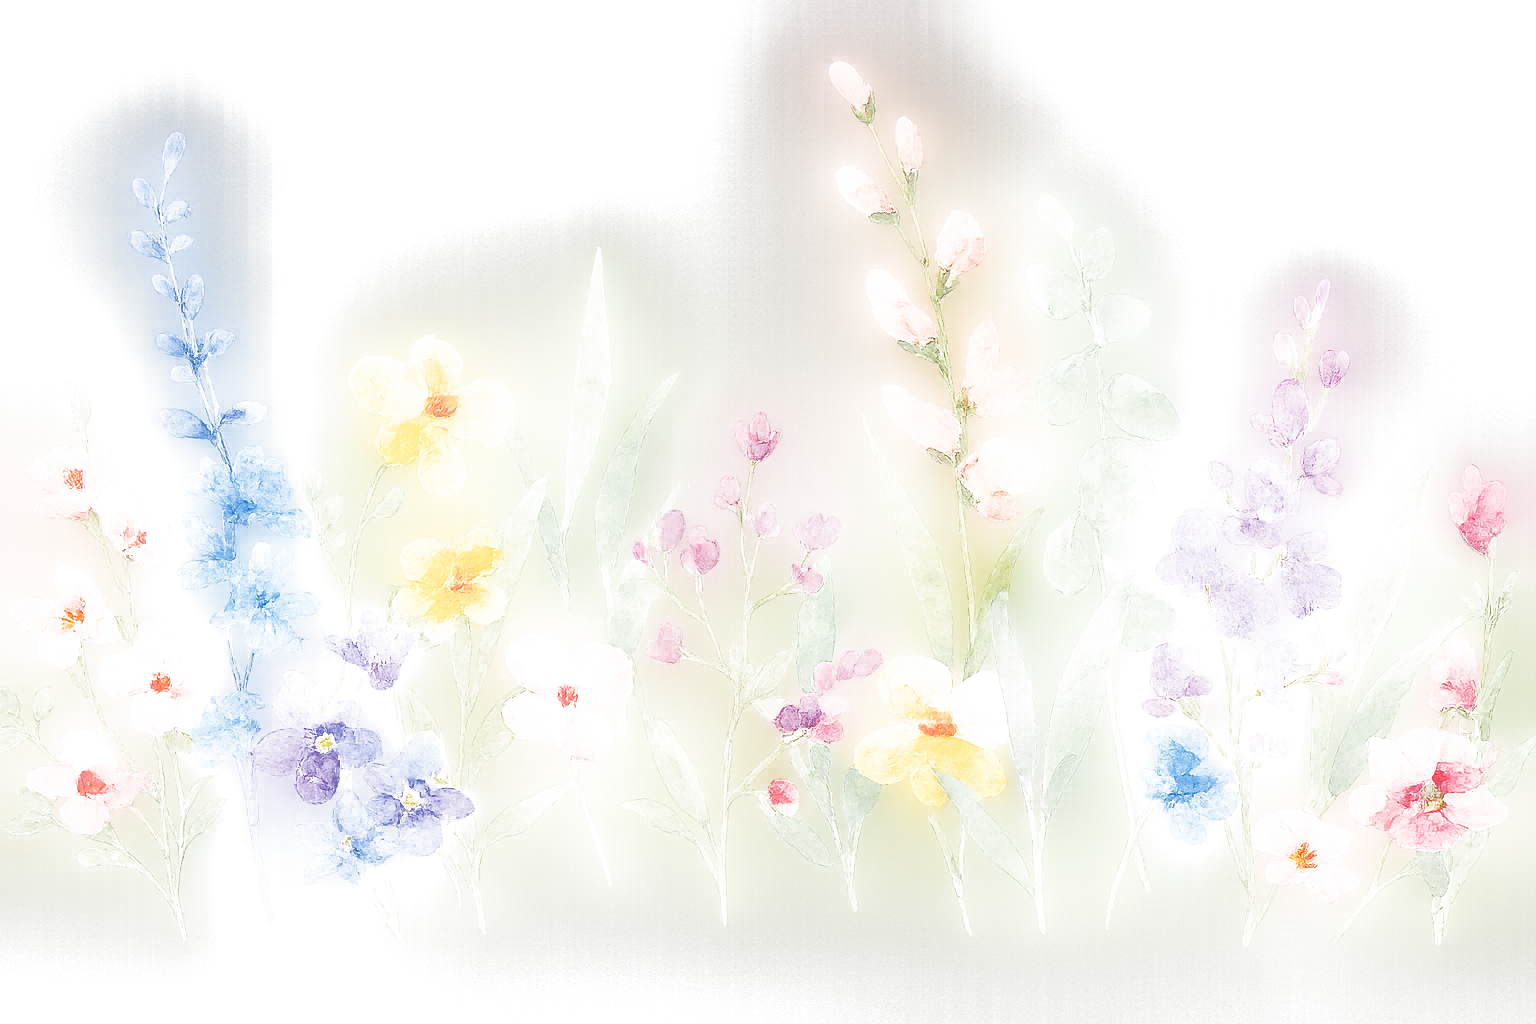
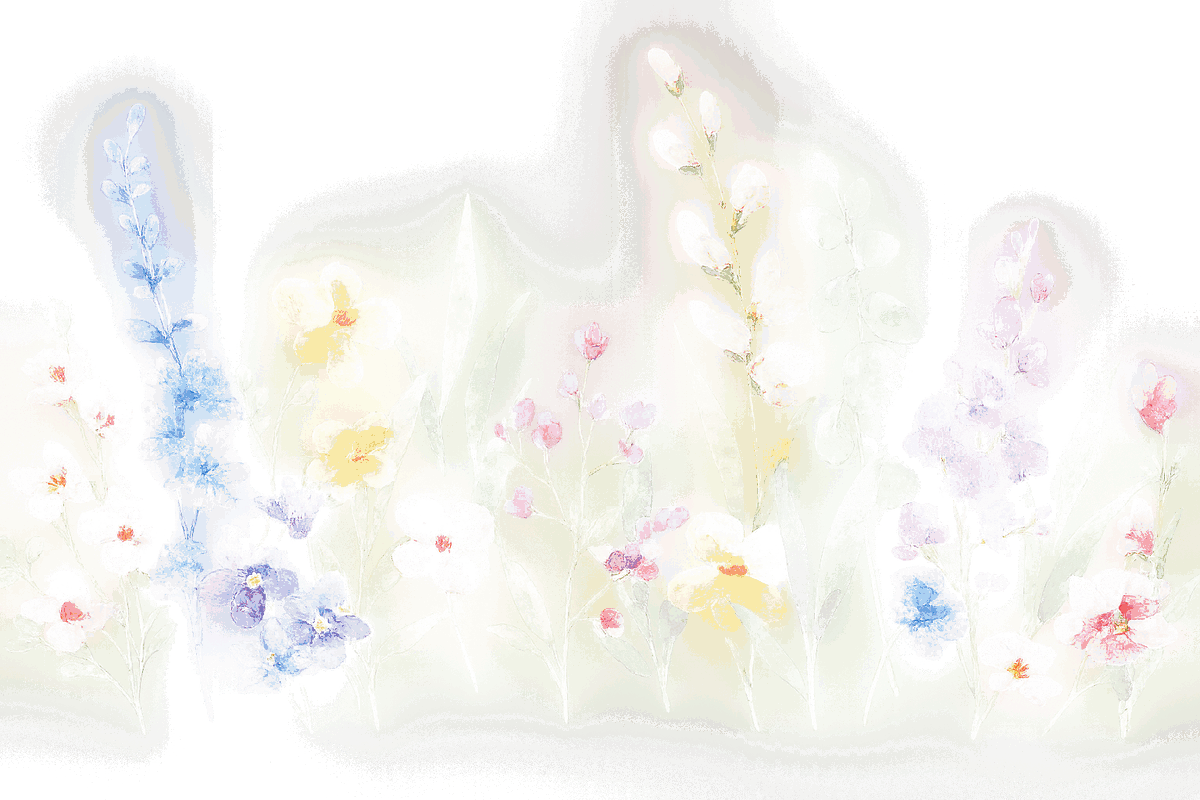
Add files via upload

diff --git a/index.html b/index.html
@@ -3,7 +3,16 @@
 <head>
   <meta charset="UTF-8" />
   <meta name="viewport" content="width=device-width, initial-scale=1.0" />
-  <title>Luciana &amp; Gianpaolo — We're Getting Married</title>
+  <title>Luciana &amp; Gianpaolo — Ci sposiamo!</title>
+
+  <!-- Anteprima condivisione (WhatsApp / social) -->
+  <meta property="og:type" content="website" />
+  <meta property="og:title" content="Luciana &amp; Gianpaolo — Ci sposiamo!" />
+  <meta property="og:description" content="13 Agosto 2026 · Santuario della Madonna del Carmine. Vi aspettiamo per celebrare insieme!" />
+  <meta property="og:image" content="https://designagencysolutions-prog.github.io/Luciana-Gianpaolo/assets/share.jpg" />
+  <meta property="og:url" content="https://designagencysolutions-prog.github.io/Luciana-Gianpaolo/" />
+  <meta name="twitter:card" content="summary_large_image" />
+  <meta name="theme-color" content="#faf6f0" />
 
   <!-- ============================================================
        EDIT ME: Quick-change checklist
@@ -138,7 +147,7 @@
     /* Sfondo della hero (piu tenue) */
     .hero::before {
       content: ''; position: absolute; inset: 0; z-index: 0;
-      background: url('assets/sfondo.png') center / cover no-repeat;
+      background: url('assets/sfondo.jpg') center / cover no-repeat;
       opacity: .5;
     }
     /* Alone bianco centrale: dietro il testo i fiori diventano quasi impercettibili */
@@ -483,7 +492,7 @@
     /* ---------- CONFERMA / RSVP ---------- */
     #rsvp {
       position: relative; padding-top: 3.5rem;
-      background: url('assets/sfondo.png') center / cover no-repeat, var(--bg);
+      background: url('assets/sfondo.jpg') center / cover no-repeat, var(--bg);
     }
     /* copre i fiori in alto: il testo resta su fondo pulito, poi sfuma */
     #rsvp::before {
@@ -588,7 +597,7 @@
     .qr-card {
       position: relative; z-index: 1; width: 100%; max-width: 460px;
       background: var(--bg);
-      background-image: url('assets/sfondo.png');
+      background-image: url('assets/sfondo.jpg');
       background-size: 140% auto; background-position: center -20px; background-repeat: no-repeat;
       border-radius: 20px; padding: 3rem 2rem 2.4rem; text-align: center;
       border: 1px solid rgba(176, 141, 87, .4);
@@ -772,14 +781,14 @@
 
       <div class="ceremony-grid">
         <div class="ce-block">
-          <img class="ce-photo" src="assets/Carmine.png" alt="Santuario della Madonna del Carmine" />
+          <img class="ce-photo" src="assets/Carmine.jpg" alt="Santuario della Madonna del Carmine" loading="lazy" />
           <p class="ce-time">Ore 16:30</p>
           <p class="ce-venue">Santuario della Madonna del Carmine</p>
           <p class="ce-addr">Montefalcone di Val Fortore (BN)</p>
           <a class="ce-map" href="https://www.google.com/maps/place/Santuario+della+Madonna+del+Carmine/@41.327992,15.0124603,17z/data=!3m1!4b1!4m6!3m5!1s0x133a1e74a51b8165:0xc4ef9e4fa931cb00!8m2!3d41.327988!4d15.0150406!16s%2Fg%2F1tg2yln4?hl=en-PT&entry=ttu&g_ep=EgoyMDI2MDYxMC4wIKXMDSoASAFQAw%3D%3D" target="_blank" rel="noopener">Come arrivare &rarr;</a>
         </div>
         <div class="ce-block">
-          <img class="ce-photo" src="assets/Borgo.png" alt="Al Borgo degli Angeli" />
+          <img class="ce-photo" src="assets/Borgo.jpg" alt="Al Borgo degli Angeli" loading="lazy" />
           <p class="ce-time">Ore 19:00</p>
           <p class="ce-venue">Al Borgo degli Angeli</p>
           <p class="ce-addr">Contrada Montebello — San Nicola Manfredi (BN)</p>
@@ -864,8 +873,8 @@
       <!-- EDIT:RSVP -->
       <div class="mt">
         <a class="rsvp-letter" href="https://api.whatsapp.com/send/?phone=[phone redacted]&text&type=phone_number&app_absent=0" target="_blank" rel="noopener" aria-label="Conferma la tua presenza">
-          <img class="rsvp-envelope" src="assets/lettera.png" alt="" />
-          <img class="rsvp-seal" src="assets/sigillo.png" alt="Conferma la tua presenza" />
+          <img class="rsvp-envelope" src="assets/lettera.png" alt="" loading="lazy" />
+          <img class="rsvp-seal" src="assets/sigillo.png" alt="Conferma la tua presenza" loading="lazy" />
         </a>
       </div>
     </div>
@@ -874,7 +883,7 @@
 
   <!-- Polaroid fluttuante (compare allo scroll) -->
   <a class="polaroid-fab" href="#" aria-label="Condividi le foto del matrimonio">
-    <img src="assets/polaroid.png" alt="Polaroid" />
+    <img src="assets/polaroid.png" alt="Polaroid" loading="lazy" />
   </a>
 
   <!-- Modal: condivisione foto con QR -->
@@ -885,7 +894,7 @@
       <div class="qr-deco">❦</div>
       <p class="qr-title">Il giorno del nostro matrimonio potete condividere le foto con noi tramite questo <strong>QR code</strong>!</p>
       <a class="qr-link" href="https://dashboard.togevent.com/app/invite?c=o0qw7891dt" target="_blank" rel="noopener">
-        <img class="qr-img" src="assets/QR.png" alt="QR code per condividere le foto" />
+        <img class="qr-img" src="assets/QR.png" alt="QR code per condividere le foto" loading="lazy" />
         <img class="qr-logo" src="assets/Logo.png" alt="" aria-hidden="true" />
       </a>
       <a class="qr-cta" href="https://dashboard.togevent.com/app/invite?c=o0qw7891dt" target="_blank" rel="noopener">oppure tocca qui per aprire &rarr;</a>